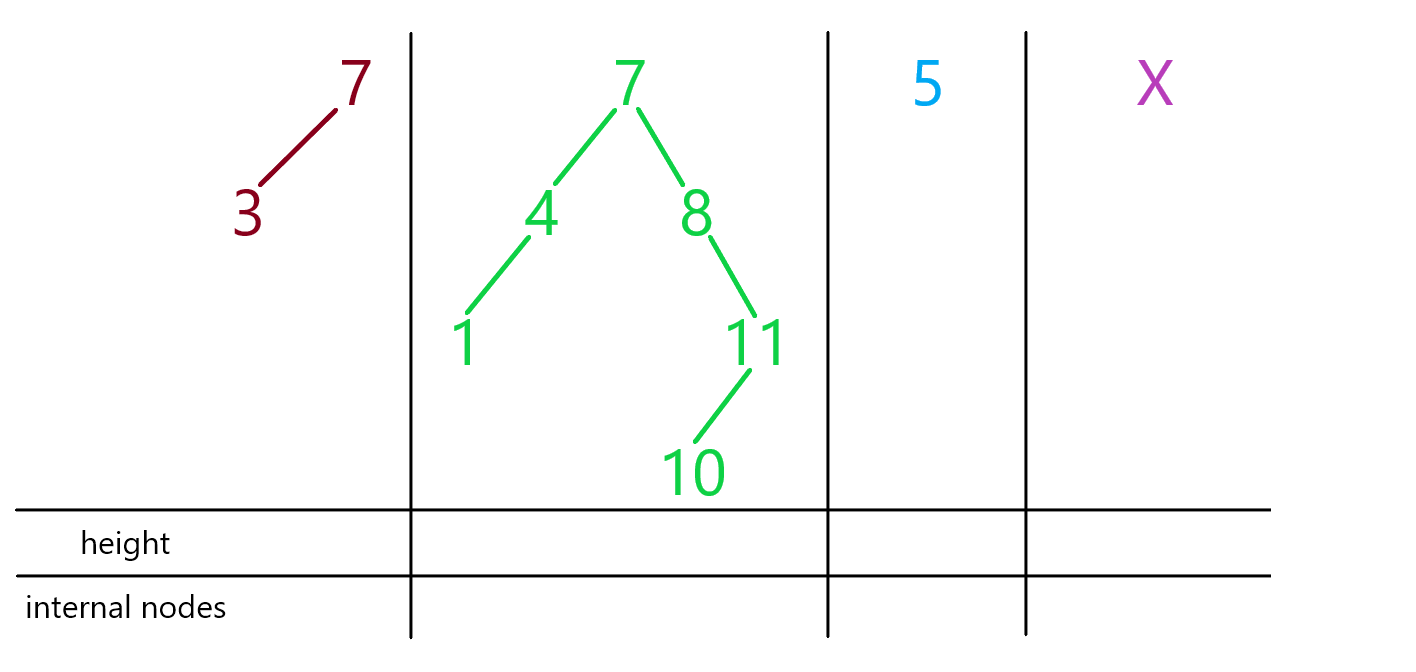
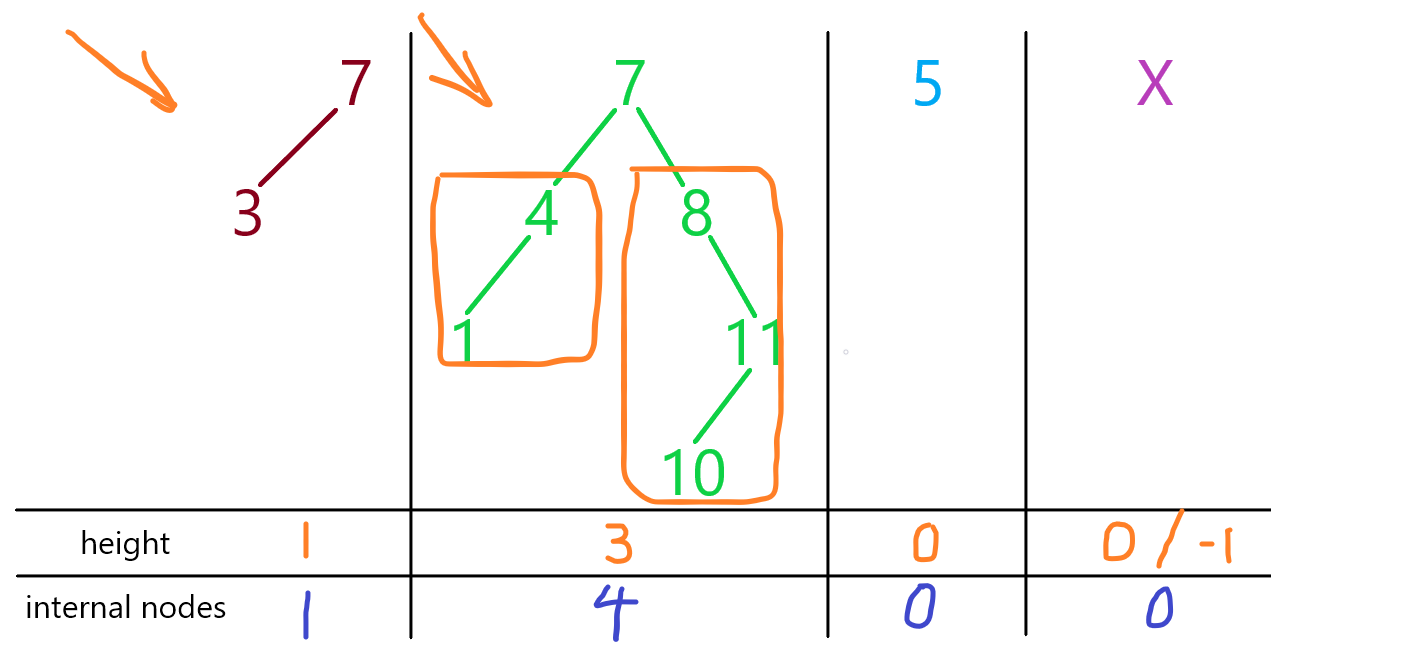
week 3 thursday

diff --git a/wk03/thu15/prac/BSTree.c b/wk03/thu15/prac/BSTree.c
@@ -7,7 +7,16 @@
  * Returns the number of nodes in the tree.
  */
 int BSTreeNumNodes(BSTree t) {
-    return 0;
+    // empty tree
+    if (t == NULL) {
+        return 0;
+    } else {
+        return 1 + BSTreeNumNodes(t->left) + BSTreeNumNodes(t->right);
+
+        // int l = BSTreeNumNodes(t->left); // #nodes in left subtree
+        // int r = BSTreeNumNodes(t->right); // #nodes in right subtree
+        // return 1 + l + r;
+    }
 }
 
 /**
@@ -16,7 +25,19 @@ int BSTreeNumNodes(BSTree t) {
  * node. The height of an empty tree is -1.
  */
 int BSTreeHeight(BSTree t) {
-    return -1;
+    // empty tree
+    if (t == NULL) {
+        return -1;
+    
+    // leaf
+    } else if (t->left == NULL && t->right == NULL) {
+        return 0;
+    
+    } else {
+        int lh = BSTreeHeight(t->left);
+        int rh = BSTreeHeight(t->right);
+        return lh > rh ? 1 + lh : 1 + rh;
+    }
 }
 
 /**
@@ -25,7 +46,22 @@ int BSTreeHeight(BSTree t) {
  * leaf.
  */
 int countInternal(BSTree t) {
-    return 0;
+    // empty tree
+    if (t == NULL) {
+        return 0;
+
+    // leaf
+    } else if (t->left == NULL && t->right == NULL) {
+        return 0;
+
+    // t is an internal node
+    } else {
+        return 1 + countInternal(t->left) + countInternal(t->right);
+
+        // int l = countInternal(t->left);
+        // int r = countInternal(t->right);
+        // return 1 + l + r;
+    }
 }
 
 /**
@@ -33,6 +69,28 @@ int countInternal(BSTree t) {
  * it exists, or -1 otherwise.
  */
 int nodeDepth(BSTree t, int key) {
-    return -1;
+    // couldn't find the key
+    if (t == NULL) {
+        return -1;
+    
+    // the key is in the root of the subtree
+    } else if (key == t->value) {
+        return 0;
+    
+    // the key is in the left subtree (if it
+    // is in the tree at all)
+    } else if (key < t->value) {
+        // search the left subtree for the key
+        int depth = nodeDepth(t->left, key);
+
+        // if the key can't be found in the left
+        // subtree return -1, otherwise return 1 +
+        // the depth of the key in the left subtree
+        return depth == -1 ? -1 : 1 + depth;
+    
+    } else { // (key > t->value)
+        int depth = nodeDepth(t->right, key);
+        return depth == -1 ? -1 : 1 + depth;
+    }
 }
 

diff --git a/wk03/thu15/prac/testBSTree.c b/wk03/thu15/prac/testBSTree.c
@@ -26,9 +26,9 @@ int main(void) {
     initTrees();
 
     testBSTreeNumNodes();
+    testBSTreeHeight();
     testCountInternal();
     testNodeDepth();
-    testBSTreeHeight();
 
     printf("All tests passed!\n");
 }
